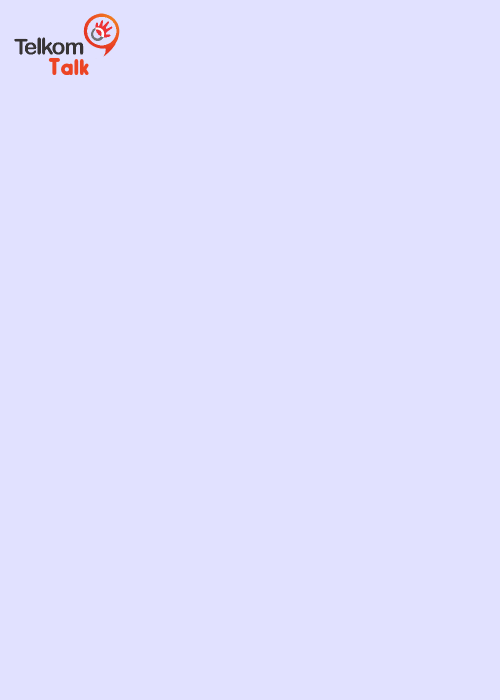
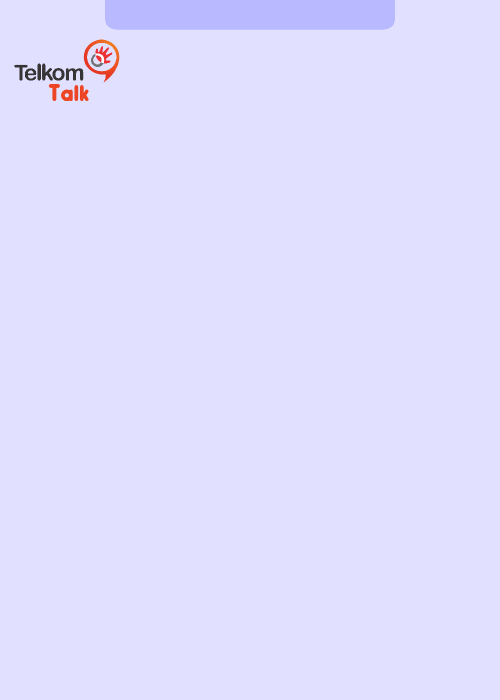
new MainUI background

Changed region(s): [[0.03, 0.0, 0.81, 0.15]]

diff --git a/src/telkomtalk/UI/pkg/MaintUI.java b/src/telkomtalk/UI/pkg/MaintUI.java
@@ -220,6 +220,7 @@ public class MaintUI extends javax.swing.JFrame {
         logoutButton = new javax.swing.JLabel();
         closeButton = new javax.swing.JLabel();
         minimizeButton = new javax.swing.JLabel();
+        jLabel2 = new javax.swing.JLabel();
         background = new javax.swing.JLabel();
 
         setDefaultCloseOperation(javax.swing.WindowConstants.EXIT_ON_CLOSE);
@@ -227,14 +228,14 @@ public class MaintUI extends javax.swing.JFrame {
         setMinimumSize(new java.awt.Dimension(500, 700));
         setUndecorated(true);
         setResizable(false);
-        addMouseMotionListener(new java.awt.event.MouseMotionAdapter() {
-            public void mouseDragged(java.awt.event.MouseEvent evt) {
-                formMouseDragged(evt);
-            }
-        });
         addMouseListener(new java.awt.event.MouseAdapter() {
             public void mousePressed(java.awt.event.MouseEvent evt) {
                 formMousePressed(evt);
+            }
+        });
+        addMouseMotionListener(new java.awt.event.MouseMotionAdapter() {
+            public void mouseDragged(java.awt.event.MouseEvent evt) {
+                formMouseDragged(evt);
             }
         });
         getContentPane().setLayout(new org.netbeans.lib.awtextra.AbsoluteLayout());
@@ -469,6 +470,15 @@ public class MaintUI extends javax.swing.JFrame {
             }
         });
         getContentPane().add(minimizeButton, new org.netbeans.lib.awtextra.AbsoluteConstraints(452, 3, 20, 20));
+
+        jLabel2.setFont(new java.awt.Font("Century Gothic", 1, 14)); // NOI18N
+        jLabel2.setForeground(new java.awt.Color(255, 255, 255));
+        jLabel2.setHorizontalAlignment(javax.swing.SwingConstants.CENTER);
+        jLabel2.setText("Username");
+        jLabel2.setMaximumSize(new java.awt.Dimension(250, 27));
+        jLabel2.setMinimumSize(new java.awt.Dimension(250, 27));
+        jLabel2.setPreferredSize(new java.awt.Dimension(250, 27));
+        getContentPane().add(jLabel2, new org.netbeans.lib.awtextra.AbsoluteConstraints(125, 1, -1, -1));
 
         background.setIcon(new javax.swing.ImageIcon(getClass().getResource("/telkomtalk/UI/images/MainUI.png"))); // NOI18N
         getContentPane().add(background, new org.netbeans.lib.awtextra.AbsoluteConstraints(0, 0, 500, 700));
@@ -732,6 +742,7 @@ public class MaintUI extends javax.swing.JFrame {
     private javax.swing.JPanel contactTab;
     private javax.swing.JTable contactTable;
     private javax.swing.JLabel jLabel1;
+    private javax.swing.JLabel jLabel2;
     private javax.swing.JLabel logoutButton;
     private javax.swing.JPanel messagesTab;
     private javax.swing.JLabel minimizeButton;
